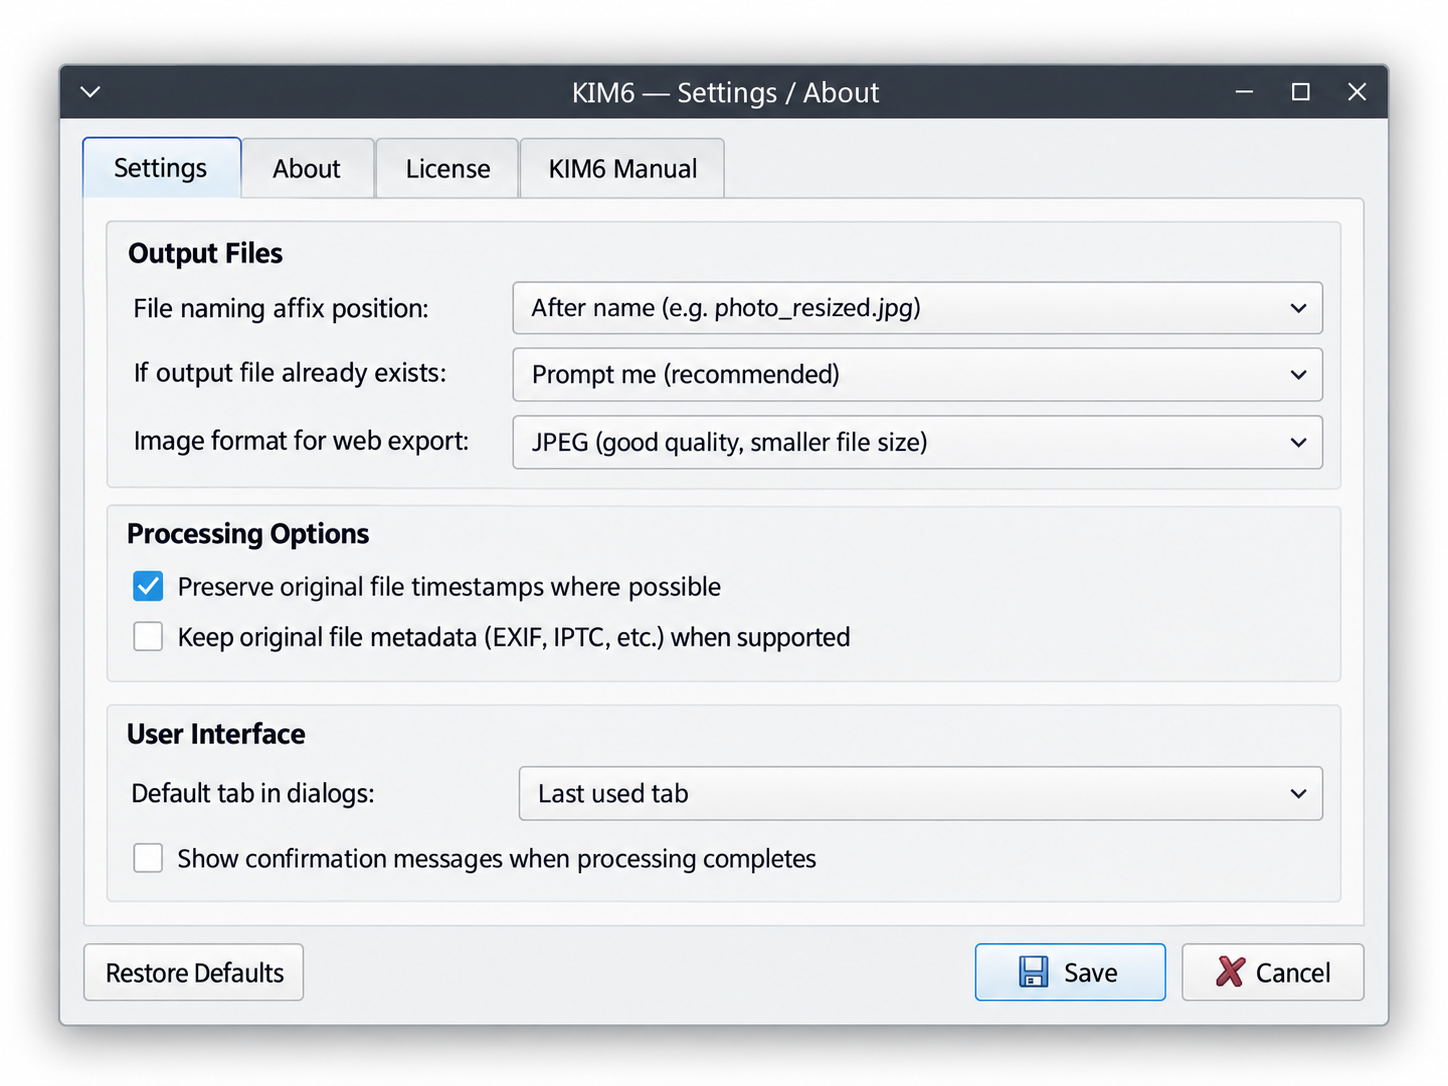
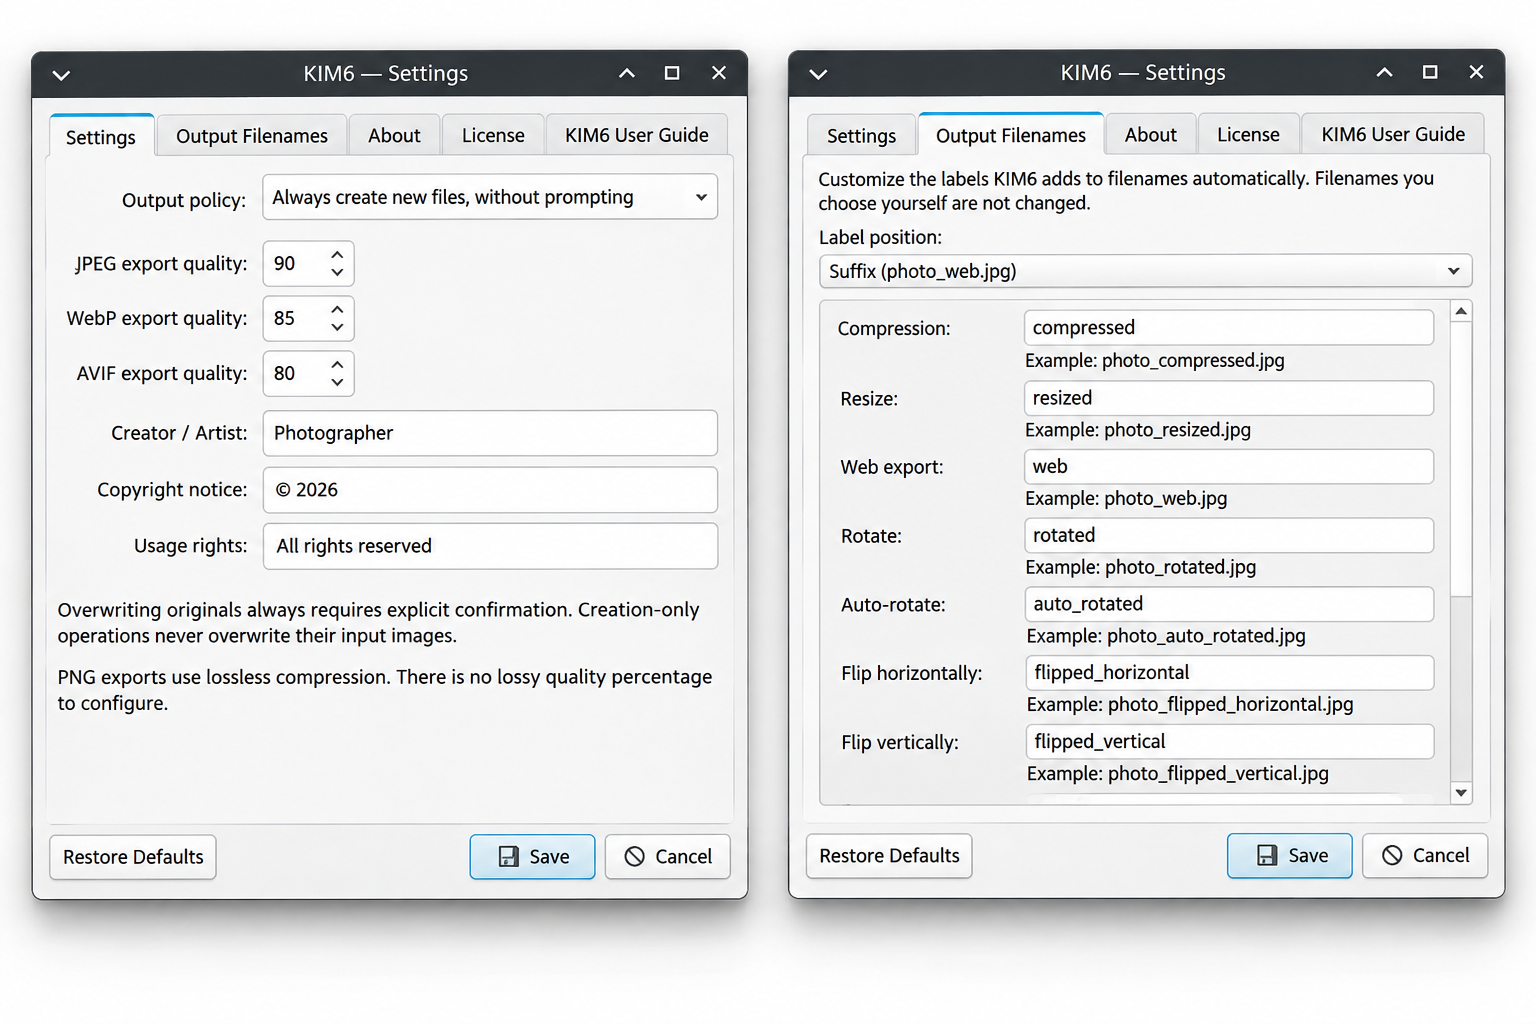
Highlight custom output filenames and update Settings screenshot

Changed region(s): [[0.0, 0.0312, 0.9945, 0.9688], [0.0932, 0.7188, 0.2486, 0.75], [0.5594, 0.6562, 0.6215, 0.6875]]

diff --git a/docs/index.html b/docs/index.html
@@ -47,6 +47,7 @@
           <span><span class="fact-check" aria-hidden="true">✓</span> Works from Dolphin</span>
           <span><span class="fact-check" aria-hidden="true">✓</span> Batch-friendly</span>
           <span><span class="fact-check" aria-hidden="true">✓</span> Originals protected</span>
+          <span><span class="fact-check" aria-hidden="true">✓</span> Custom filename labels</span>
         </div>
       </div>
       <div class="hero-art" aria-label="Example showing a photograph and its resized copy">
@@ -76,6 +77,7 @@
         <a href="#start">Start here</a>
         <a href="#visual-guide">Illustrated walkthrough</a>
         <a href="#photos">Everyday photo tasks</a>
+        <a href="#filenames">Custom output filenames</a>
         <a href="#sharing">Share and export</a>
         <a href="#metadata">Metadata and dates</a>
         <a href="#collections">Albums and collections</a>
@@ -118,9 +120,9 @@
       <img src="images/kim6-photo-actions.png" alt="KIM6 photo actions in Dolphin" loading="lazy" decoding="async" width="1448" height="1086">
       <figcaption><strong>1. Photo actions in Dolphin.</strong> Access image conversion, creation, metadata, resizing, and export tools from the right-click menu.</figcaption>
     </figure>
-    <figure class="manual-shot">
-      <img src="images/kim6-settings-dialog.png" alt="KIM6 configuration dialog" loading="lazy" decoding="async" width="1448" height="1086">
-      <figcaption><strong>2. Configure KIM6.</strong> Review output naming, defaults, and processing preferences.</figcaption>
+    <figure class="manual-shot manual-shot-wide" id="settings-screenshot">
+      <img src="images/kim6-settings-dialog.png" alt="KIM6 Settings and Output Filenames dialogs showing general preferences and customizable filename labels" loading="lazy" decoding="async" width="1536" height="1024">
+      <figcaption><strong>2. Settings and Output Filenames.</strong> Configure file handling and export quality, then customize the labels KIM6 adds to automatically generated filenames. Choose prefixes or suffixes and preview the results before saving.</figcaption>
     </figure>
     <figure class="manual-shot">
       <img src="images/kim6-collage-dialog.png" alt="KIM6 photo collage dialog" loading="lazy" decoding="async" width="1448" height="1086">
@@ -178,11 +180,43 @@
             <div class="output"><span>3 selected photos</span><span class="output-arrow" aria-hidden="true">→</span><strong>3 resized files</strong></div>
           </article>
         </div>
-        <p class="section-footnote">If an output filename already exists, KIM6 adds a number to avoid overwriting it. You can also choose whether descriptive labels appear before or after the filename. For example, compressed images can be named <code>filename_compressed.jpg</code> (the default), <code>compressed_filename.jpg</code>, or <code>filename_com.jpg</code> with your own label. Change labels and their position under <strong>Settings → Output Filenames</strong>, with a live preview. <a href="reference/commandconfig.html">Naming and command options <span aria-hidden="true">↗</span></a></p>
+        <p class="section-footnote">KIM6 adds a number when an output filename already exists, rather than replacing that file. <a href="#filenames">See how to customize your output filenames <span aria-hidden="true">↓</span></a>.</p>
+      </section>
+
+      <section id="filenames" class="content-section" aria-labelledby="filenames-title">
+        <p class="section-eyebrow"><span class="section-index">03</span> CUSTOM OUTPUT FILENAMES</p>
+        <h2 id="filenames-title">Name your output files your way.</h2>
+        <p class="section-intro">KIM6 lets you customize the labels it automatically adds to image and video filenames. Keep the familiar defaults or choose names that better fit your workflow.</p>
+
+        <div class="feature-pair">
+          <article class="feature-block">
+            <div class="feature-symbol" aria-hidden="true">Aa</div>
+            <h3>Choose your own labels</h3>
+            <p>Shorten <code>compressed</code> to <code>com</code>, change <code>resized</code> to <code>res</code>, or customize the labels used for web export, metadata, and video tools.</p>
+            <div class="output">
+              <span>photo_compressed.jpg</span>
+              <span class="output-arrow" aria-hidden="true">→</span>
+              <strong>photo_com.jpg</strong>
+            </div>
+          </article>
+
+          <article class="feature-block">
+            <div class="feature-symbol" aria-hidden="true">↔</div>
+            <h3>Prefix or suffix? Your choice.</h3>
+            <p>Put the label before or after the original filename. The Output Filenames tab shows a live preview, so you can see exactly how your files will be named.</p>
+            <div class="output">
+              <span>photo_com.jpg</span>
+              <span class="output-arrow" aria-hidden="true">↔</span>
+              <strong>com_photo.jpg</strong>
+            </div>
+          </article>
+        </div>
+
+        <p class="section-footnote">Open <strong>Actions → KIM6 — Settings/About → Settings → Output Filenames</strong> in Dolphin to customize all 21 labels or restore their defaults. Your originals remain protected, and filenames you explicitly choose yourself are unaffected. KIM6 also adds a number when necessary to avoid overwriting an existing file. <a href="#settings-screenshot">View the Settings screenshot</a>. <a href="reference/commandconfig.html#custom-output-filename-labels">See all available labels and settings <span aria-hidden="true">↗</span></a></p>
       </section>
 
       <section id="sharing" class="content-section" aria-labelledby="sharing-title">
-        <p class="section-eyebrow"><span class="section-index">03</span> READY TO SEND</p>
+        <p class="section-eyebrow"><span class="section-index">04</span> READY TO SEND</p>
         <h2 id="sharing-title">Share without changing the source.</h2>
         <p class="section-intro">Prepare smaller files for the web or email while leaving the selected photographs intact.</p>
         <div class="feature-pair">
@@ -192,7 +226,7 @@
       </section>
 
       <section id="metadata" class="content-section" aria-labelledby="metadata-title">
-        <p class="section-eyebrow"><span class="section-index">04</span> INFORMATION INSIDE YOUR FILES</p>
+        <p class="section-eyebrow"><span class="section-index">05</span> INFORMATION INSIDE YOUR FILES</p>
         <h2 id="metadata-title">Control metadata and dates.</h2>
         <p class="section-intro">Photos can contain location, camera, author, and capture-date information. KIM6 gives you targeted ways to work with it.</p>
         <div class="split-panel">
@@ -213,7 +247,7 @@
       </section>
 
       <section id="collections" class="content-section" aria-labelledby="collections-title">
-        <p class="section-eyebrow"><span class="section-index">05</span> MAKE SOMETHING NEW</p>
+        <p class="section-eyebrow"><span class="section-index">06</span> MAKE SOMETHING NEW</p>
         <h2 id="collections-title">From pictures to collections.</h2>
         <p class="section-intro">Turn your photos into galleries, collages, albums, animations, or slideshows. KIM6 saves the results separately, leaving your original images untouched.</p>
         <div class="collection-grid">
@@ -228,7 +262,7 @@
       </section>
 
       <section id="video" class="content-section" aria-labelledby="video-title">
-        <p class="section-eyebrow"><span class="section-index">06</span> VIDEO WORKFLOWS</p>
+        <p class="section-eyebrow"><span class="section-index">07</span> VIDEO WORKFLOWS</p>
         <h2 id="video-title">Useful video tools, right in Dolphin.</h2>
         <p class="section-intro">Re-encode video, extract useful parts, or generate previews using the codecs available on your system.</p>
         <div class="video-list">
@@ -241,7 +275,7 @@
       </section>
 
       <section id="file-handling" class="content-section" aria-labelledby="handling-title">
-        <p class="section-eyebrow"><span class="section-index">07</span> BEFORE YOU CLICK</p>
+        <p class="section-eyebrow"><span class="section-index">08</span> BEFORE YOU CLICK</p>
         <h2 id="handling-title">Your originals stay protected.</h2>
         <p class="section-intro">KIM6 protects your original files by default. When an action could replace an original, you must explicitly approve the change. Nothing is silently overwritten.</p>
         <div class="policy-grid">
@@ -255,7 +289,7 @@
       </section>
 
       <section id="troubleshooting" class="content-section" aria-labelledby="troubleshooting-title">
-        <p class="section-eyebrow"><span class="section-index">08</span> WHEN SOMETHING GOES WRONG</p>
+        <p class="section-eyebrow"><span class="section-index">09</span> WHEN SOMETHING GOES WRONG</p>
         <h2 id="troubleshooting-title">Troubleshooting common problems.</h2>
         <p class="section-intro">If a menu is missing or an action fails, these common checks can help you identify and resolve the problem.</p>
         <div class="faq-list">
@@ -267,7 +301,7 @@
       </section>
 
       <section id="references" class="content-section references-section" aria-labelledby="references-title">
-        <p class="section-eyebrow"><span class="section-index">09</span> GO DEEPER</p>
+        <p class="section-eyebrow"><span class="section-index">10</span> GO DEEPER</p>
         <h2 id="references-title">Everything is documented.</h2>
         <p class="section-intro">This page covers everyday use. For additional information about features, settings, installation, or development, please check the resources below.</p>
         <div class="reference-list">
